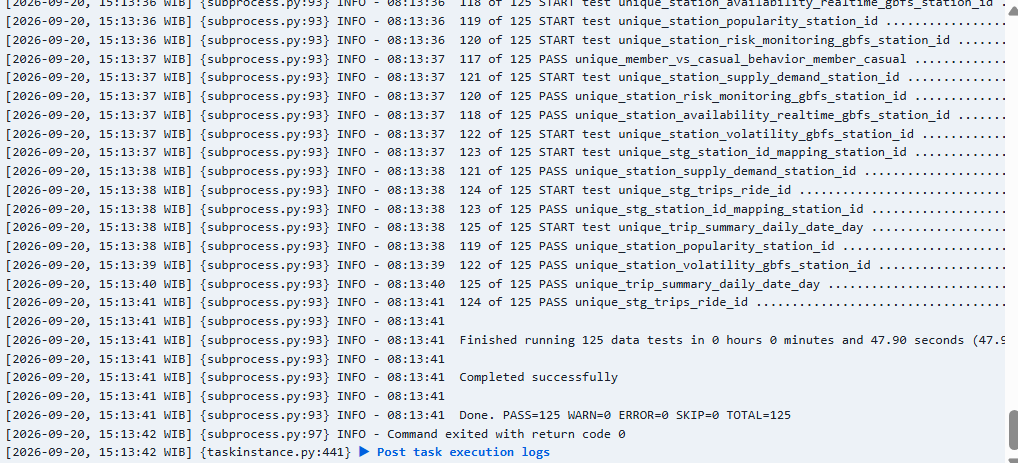
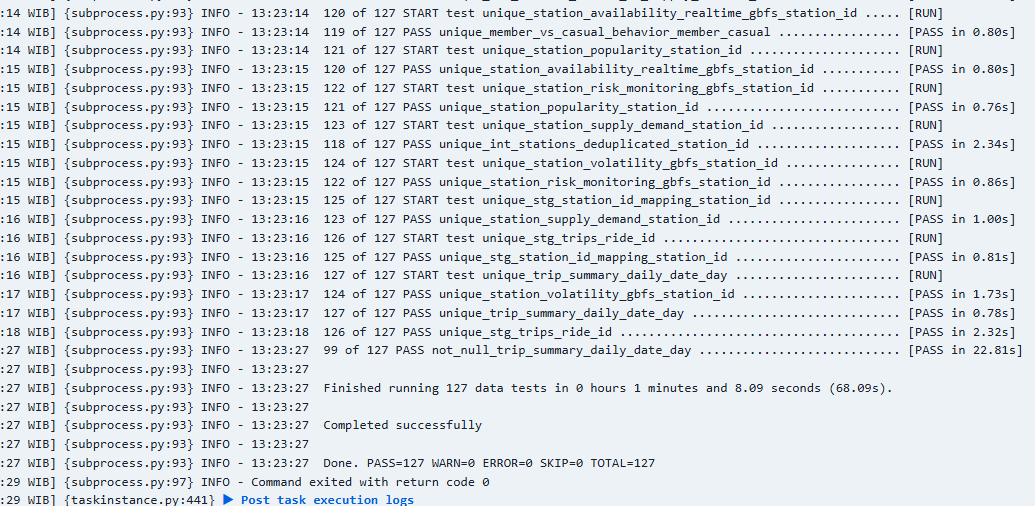
penyesuaian

diff --git a/docs/erd.md b/docs/erd.md
@@ -733,8 +733,8 @@ tidak perlu membaca marts/core. Dipakai `dim_station` (1:1) dan
 | `region_id` | STRING | wilayah |
 | `trip_mentions` | INT64 | berapa kali stasiun muncul di riwayat trip |
 | `first_seen_at` / `last_seen_at` | TIMESTAMP | rentang kemunculan |
-| `has_capacity_info` | BOOL | FALSE bila `capacity` NULL |
 | `is_missing_from_gbfs` | BOOL | TRUE untuk 38 stasiun yang tidak ada di feed |
+| `has_capacity_info` | BOOL | TRUE bila `capacity` terisi. Selalu TRUE/FALSE, tidak pernah NULL |
 
 > Wajib **table**, bukan view: `int_station_risk_calculation` membacanya tiap
 > jam, dan di bawahnya ada `int_stations_deduplicated` → `stg_trips` →
@@ -1022,6 +1022,7 @@ diperbaiki — bukan kekhawatiran teoretis.
 | `PARTITION BY` pada kolom yang bisa NULL | 82.183 dari 139.582 baris (59%) salah | Di BigQuery semua NULL masuk **satu** partisi, bukan diabaikan. Kunci diff harus kolom yang tidak pernah NULL (`gbfs_station_id`). |
 | Benih CDC dari satu snapshot | 3 stasiun dapat `op='c'` palsu | Snapshot batas tidak selalu lengkap. Ambil benih **per stasiun** dari tabel tujuan. |
 | `insert_overwrite` pada model yang hanya mengeluarkan baris baru | 5.494 dari 9.990 perubahan (55%) di satu tanggal terhapus | `insert_overwrite` mengganti **seluruh** partisi yang tersentuh, bukan menggabungkannya. `copy_partitions=True` hanya melindungi partisi lain yang tidak tersentuh — ia **tidak** menyelesaikan penggantian partisi yang sama. Untuk model append-only, pakai `merge` + `unique_key`. |
+| Perbandingan pada kolom yang bisa NULL untuk mengisi flag BOOLEAN | `has_capacity_info` NULL di 38 stasiun, sehingga `WHERE NOT has_capacity_info` diam-diam kehilangan 38 baris | `NULL > 0` menghasilkan **NULL**, bukan FALSE. Flag BOOLEAN lebih baik **diturunkan** dari kolom yang diwakilinya (`capacity IS NOT NULL`) daripada dihitung terpisah dari sumbernya — dengan begitu divergensi jadi mustahil, bukan sekadar diperbaiki. |
 | Test yang hanya memeriksa duplikat | `op='c'` hilang di satu stasiun tidak tertangkap selama berhari-hari | Idempotensi dan kelengkapan itu berbeda. Filter incremental memberi idempotensi; kelengkapan butuh test tersendiri, mis. membandingkan jumlah baris dengan sumbernya. |
 | Join metadata di akhir query | 130,2 MiB → 28,1 MiB setelah diperbaiki (4,6×) | Membawa kolom sejak CTE sumber mencegah tabel dipindai dua kali. |
 | "Tidak ada perubahan" vs "tidak ada data" | dwell time "3.964 menit" — seluruhnya artefak | Interval panjang bisa berarti streaming mati. Perlu kolom `is_possible_gap`. |

diff --git a/README.md b/README.md
@@ -206,7 +206,7 @@ Potret **2026-09-20** dari project `jcdeah-009`.
 | `dim_date` | 271 hari (buffer 7 hari) | Bertambah tiap hari |
 | `fct_station_status` | 954.345 baris (487 snapshot) | Bertambah saat streaming hidup |
 | `int_station_status_changes` | 73.244 baris (7,67% dari fct) | Bertambah saat streaming hidup |
-| `dbt test` | **125 lulus, 0 gagal** | Termasuk test mart operasional & volatilitas |
+| `dbt test` | **127 lulus, 0 gagal** | Termasuk test mart operasional & volatilitas |
 | Kafka consumer lag | 0 | Diukur saat streaming berjalan |
 | Watchdog streaming | 4/4 pemeriksaan sehat | Diukur saat streaming berjalan |
 
@@ -235,7 +235,7 @@ menjelaskan pipeline:
 | Dataset scheduling | `docs/screenshots/doc-07-DAG-transform-batch.png` | `transform_batch` terpicu Dataset, bukan cron |
 | Kafka UI | `docs/screenshots/doc-02-kafkaUI.png` | Partisi topik dan consumer lag |
 | Alert masuk | `docs/screenshots/doc-03-slack-alert.png` | Alert benar-benar terkirim, bukan sekadar terpasang |
-| `dbt test` | `docs/screenshots/doc-10-dbt-test.png` | **125 lulus, 0 gagal** |
+| `dbt test` | `docs/screenshots/doc-10-dbt-test.png` | **127 lulus, 0 gagal** |
 | Dashboard | [`metabase/README.md`](metabase/README.md#hasil-dashboard) | Hasil 8 chart |
 
 ## Dokumentasi

diff --git a/docs/runbook.md b/docs/runbook.md
@@ -395,13 +395,13 @@ pada percobaan kedua log akan memuat `ditahan (dedup ...)`.
 
 Potret **2026-09-20** dari project `jcdeah-009`.
 
-`dbt test` **125/125 lulus** (PASS=125, WARN=0, ERROR=0) — dijalankan ulang
+`dbt test` **127/127 lulus** (PASS=127, WARN=0, ERROR=0) — dijalankan ulang
 setelah lapisan CDC ditambahkan **dan** setelah strategi incremental arsip
 diganti ke `merge`. Rekonsiliasi `raw = valid + rejected` dan
 `fct_trips = valid` **diverifikasi ulang pada potret ini dan keduanya
 seimbang**: 5.981.588 = 5.952.072 + 29.516.
 
-![dbt test — 125 lulus, 0 gagal](screenshots/doc-10-dbt-test.png)
+![dbt test — 127 lulus, 0 gagal](screenshots/doc-10-dbt-test.png)
 
 Streaming berjalan dengan Kafka lag 0 dan watchdog melaporkan keempat
 pemeriksaan sehat — keduanya diukur **saat streaming hidup**. Streaming kini
